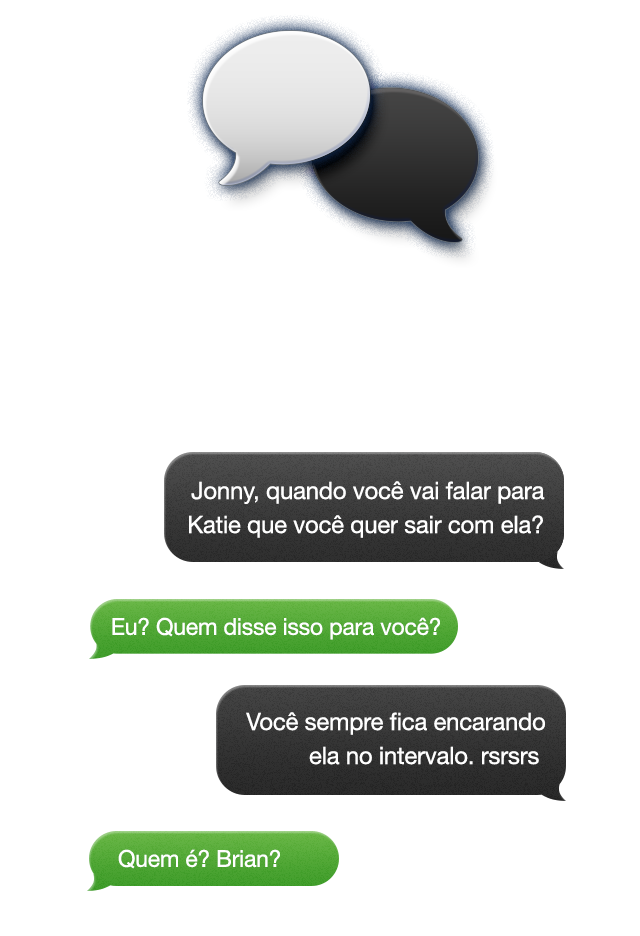
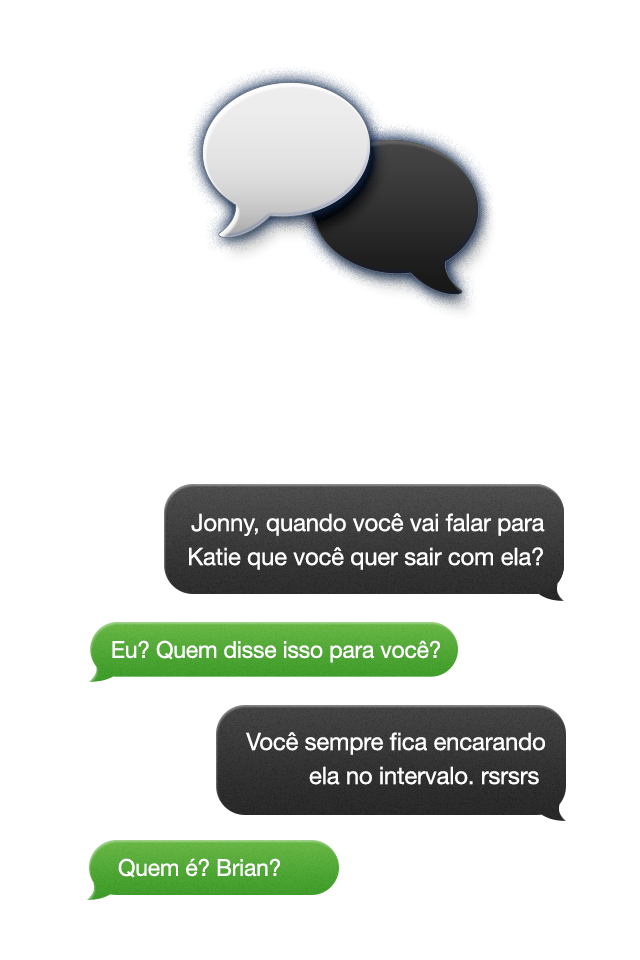
Bug-51533247: Fix tours {FB,GPP}x{iPhone5,iPhone4,iPhone3}x{EN,PT}

Changed region(s): [[0.125, 0.4647, 0.9062, 0.8365], [0.2812, 0.0, 0.7812, 0.3408], [0.125, 0.8675, 0.5312, 0.9605]]

diff --git a/YouTellMobile/YouTellMobile/Controllers/YTTourViewController.m b/YouTellMobile/YouTellMobile/Controllers/YTTourViewController.m
@@ -44,17 +44,24 @@
     }
    
     NSString *lang = [NSLocale preferredLanguages][0];
-    if ([lang isEqualToString:@"pt"] || [lang isEqualToString:@"pt-PT"]) {
+    bool brazilLang = [lang isEqualToString:@"pt"] || [lang isEqualToString:@"pt-PT"];
+    if (brazilLang) {
         imageName = [imageName stringByAppendingString:@"_pt"];
     }
     
     UIImageView *imageView = [[UIImageView alloc] init];
     imageView.frame = frame;
     imageView.image = [YTHelper imageNamed:imageName];
-    if([YTHelper isPhone5])
-        imageView.contentMode = UIViewContentModeCenter;
-    else
-        imageView.contentMode = UIViewContentModeTop;
+    imageView.contentMode = UIViewContentModeCenter;
+    
+    //TODO get rid of this w/ perfect images one day
+    if (brazilLang) {
+        imageView.frame = CGRectMake(frame.origin.x, frame.origin.y - 15, frame.size.width, frame.size.height);
+    }
+    else {
+        imageView.frame = CGRectMake(frame.origin.x, frame.origin.y + 10, frame.size.width, frame.size.height);
+    }
+        
     
     if (page == 2) {
         UIButton *shareButton = [UIButton buttonWithType:UIButtonTypeCustom];
@@ -62,7 +69,12 @@
         CGRect frame;
         frame.size.width = 250;
         frame.origin.x = (imageView.frame.size.width - frame.size.width) / 2;
-        frame.origin.y = 300;
+        frame.origin.y = imageView.frame.size.height - 140;
+        //TODO perfect images?
+        if (!brazilLang) {
+            frame.origin.y = frame.origin.y - 40;
+        }
+
         
         if (isfb) {
             [shareButton setBackgroundImage:[[YTHelper imageNamed:@"fbsharebtn"] resizableImageWithCapInsets:UIEdgeInsetsMake(15, 15, 15, 15)] forState:UIControlStateNormal];
@@ -92,7 +104,7 @@
         
         frame = cancelButton.frame;
         frame.origin.x = (imageView.frame.size.width - frame.size.width) / 2;
-        frame.origin.y = 380;
+        frame.origin.y = shareButton.frame.origin.y + 80;
         cancelButton.frame = frame;
         [cancelButton addTarget:self action:@selector(cancelButtonWasClicked) forControlEvents:UIControlEventTouchUpInside];
         
